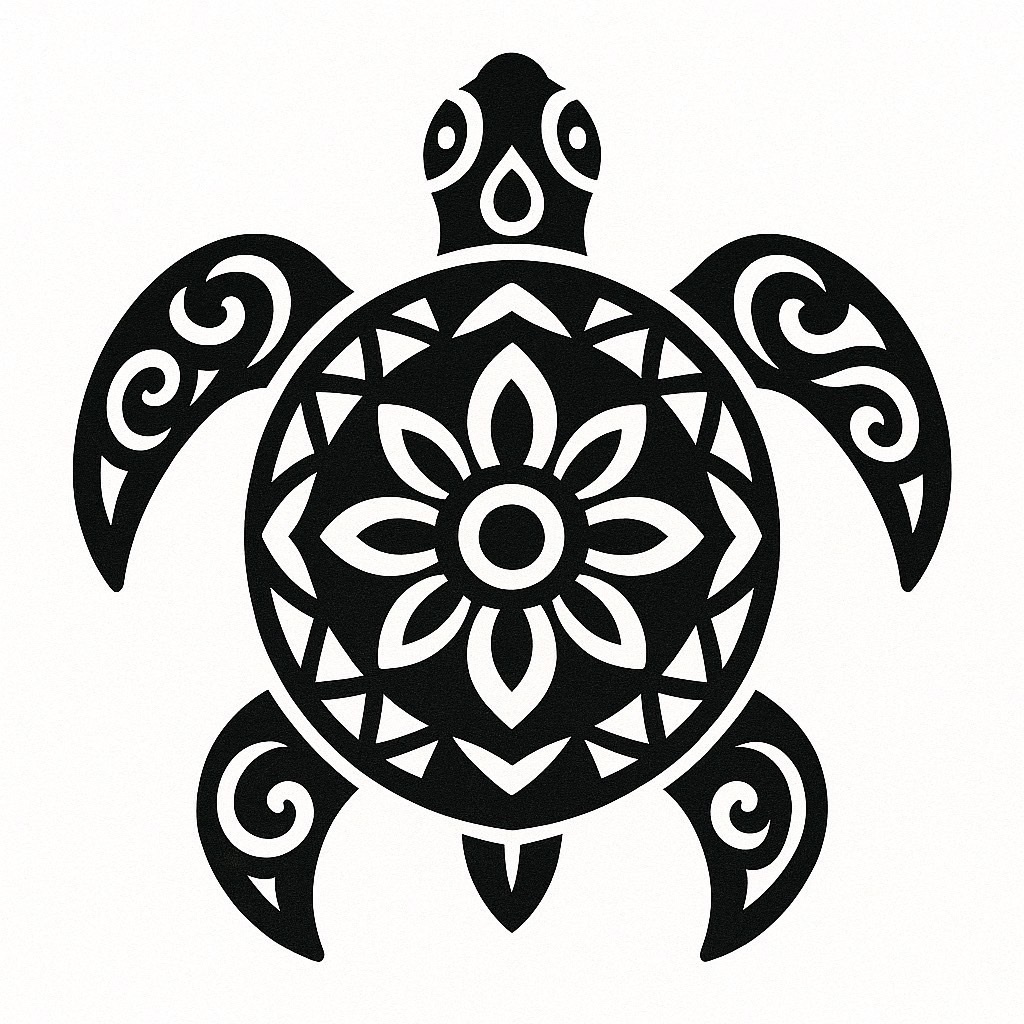
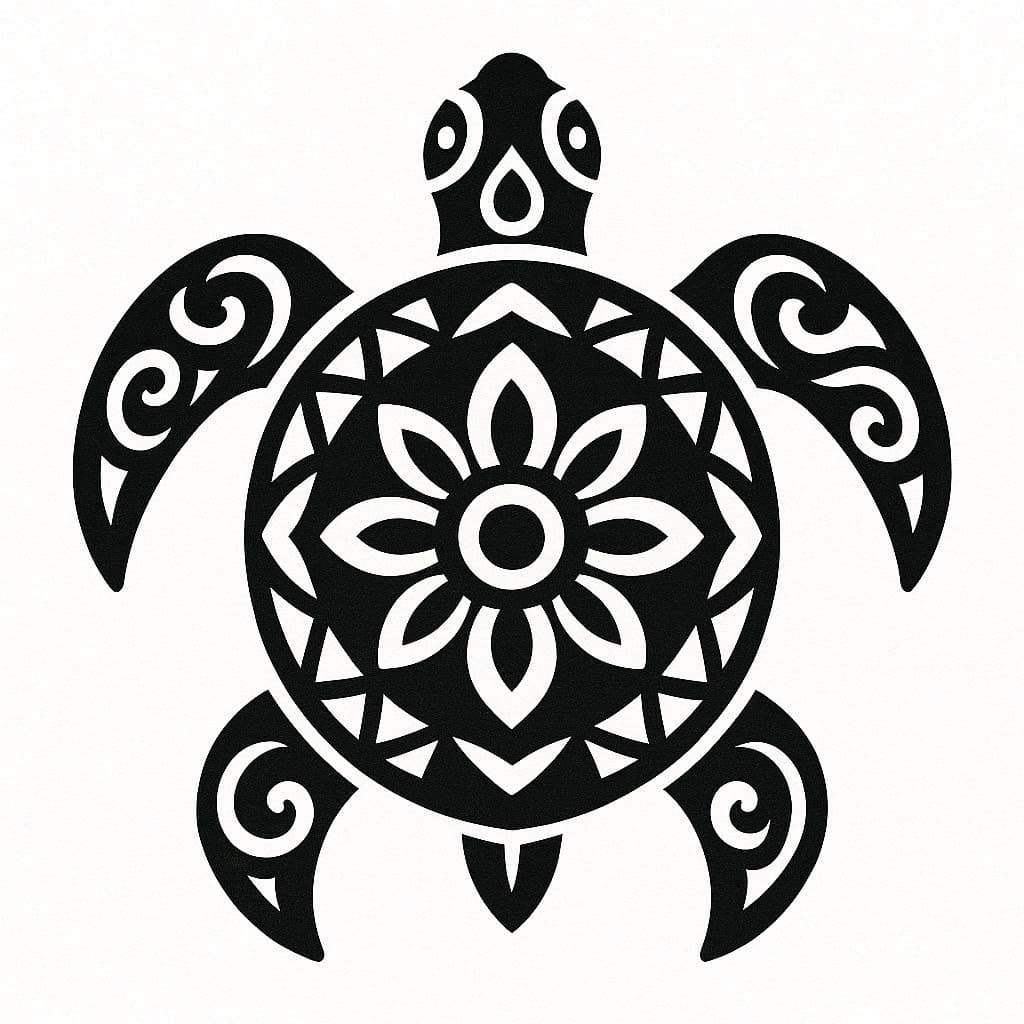
イベント追加及び、イベントJPG圧縮版に差し替え

Changed region(s): [[0.5312, 0.4375, 0.5625, 0.4688]]

diff --git a/index.html b/index.html
@@ -499,6 +499,12 @@
       <p class="muted">2026年3月22日 09:30〜13:30</p>
     </article>
 
+        <article class="card fade-up event-card">
+      <img src="images/event8.jpg" alt="イベント画像" style="width:100%; border-radius:12px; margin-bottom:8px;">
+      <h4>ドゥードルオフ会</h4>
+      <p class="muted">2026年4月19日 09:30〜13:30</p>
+    </article>
+
   </div>
 </section>
 
@@ -516,6 +522,7 @@
             <option value="柴犬オフ会">柴犬オフ会 (2026年2月22日)</option>
             <option value="パグ&フレブルオフ会">パグ&フレブルオフ会 (2026年3月8日)</option>
             <option value="バーニーズ×グレピオフ会">バーニーズ×グレピオフ会 (2026年3月22日)</option>
+            <option value="ドゥードルオフ会">ドゥードルオフ会 (2026年4月19日)</option>
           </select>
         </label>
 
